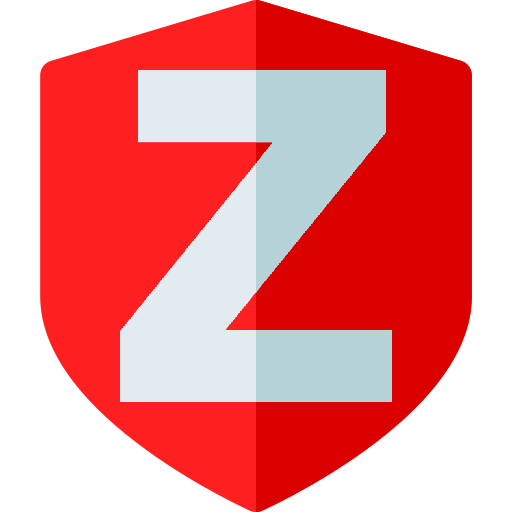
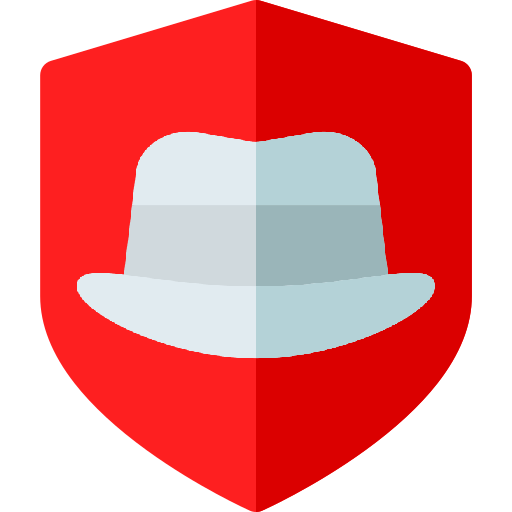
Add files via upload

Changed region(s): [[0.125, 0.125, 0.8438, 0.8125]]

diff --git a/index.html b/index.html
@@ -6,7 +6,7 @@
     <meta charset="UTF-8">
     <meta http-equiv="X-UA-Compatible" content="IE=edge">
     <meta name="viewport" content="width=device-width, initial-scale=1.0">
-    <title>The ZetaSploit Framework</title>
+    <title>The HatSploit Framework</title>
     <meta name="description" content="">
 
     <!-- External CSS -->
@@ -82,7 +82,7 @@
                     <div class="row">
                         <div class="col-xs-12">
                             <div class="banner-text-content text-center wow fadeInUp" data-wow-duration="1.5s">
-                                <h1 class="banner-title ">The ZetaSploit Framework</h1>
+                                <h1 class="banner-title ">The HatSploit Framework</h1>
                                 <p class="banner-text ">Modular penetration testing platform that enables you to write, test, and execute exploit code.</p>
                                 <div class="button-group ">
                                     <a class="btn btn-lg " href="# ">Learn More</a>
@@ -115,7 +115,7 @@
                                     <span class="icon-tools-2 "></span>
                                 </div>
                                 <h4 class="intro-title ">Customizable</h4>
-                                <p class="intro-content ">You can load plugins to customize ZetaSploit default functions or add new</p>
+                                <p class="intro-content ">You can load plugins to customize HatSploit default functions or add new</p>
                             </div>
                         </div>
                         <div class="col-sm-4">
@@ -124,7 +124,7 @@
                                     <span class="icon-layers"></span>
                                 </div>
                                 <h4 class="intro-title">Modular</h4>
-                                <p class="intro-content">ZetaSploit Framework is full of modules that enables you to exploit custom vulnerabilities</p>
+                                <p class="intro-content">HatSploit Framework is full of modules that enables you to exploit custom vulnerabilities</p>
                             </div>
                         </div>
                         <div class="col-sm-4">
@@ -133,7 +133,7 @@
                                     <span class="icon-speedometer "></span>
                                 </div>
                                 <h4 class="intro-title ">Fast</h4>
-                                <p class="intro-content ">ZetaSploit Framework optimized for user, it loads modules and plugins as fast as can</p>
+                                <p class="intro-content ">HatSploit Framework optimized for user, it loads modules and plugins as fast as can</p>
                             </div>
                         </div>
                     </div>
@@ -149,7 +149,7 @@
                     <div class="col-md-6 col-md-offset-3 col-xs-12 ">
                         <div class="section-header text-center ">
                             <h3 class="section-title ">All Features</h3>
-                            <p class="section-subtext ">There are some main ZetaSploit Framework features</p>
+                            <p class="section-subtext ">There are some main HatSploit Framework features</p>
                         </div>
                     </div>
                 </div>
@@ -161,7 +161,7 @@
                             </div>
                             <div class="feature-content ">
                                 <h4 class="feature-title ">Customizable</h4>
-                                <p>You can load plugins to customize ZetaSploit default functions or add new</p>
+                                <p>You can load plugins to customize HatSploit default functions or add new</p>
                             </div>
                         </div>
                         <div class="feature wow fadeInUp" data-wow-duration="1.5s">
@@ -170,7 +170,7 @@
                             </div>
                             <div class="feature-content">
                                 <h4 class="feature-title">Fast</h4>
-                                <p>ZetaSploit Framework optimized for user, it loads modules and plugins as fast as can</p>
+                                <p>HatSploit Framework optimized for user, it loads modules and plugins as fast as can</p>
                             </div>
                         </div>
                     </div>
@@ -184,7 +184,7 @@
                             </div>
                             <div class="feature-content ">
                                 <h4 class="feature-title ">Modular</h4>
-                                <p>ZetaSploit Framework is full of modules that enables you to exploit custom vulnerabilities</p>
+                                <p>HatSploit Framework is full of modules that enables you to exploit custom vulnerabilities</p>
                             </div>
                         </div>
                         <div class="feature wow fadeInUp" data-wow-duration="1.5s">
@@ -193,7 +193,7 @@
                             </div>
                             <div class="feature-content ">
                                 <h4 class="feature-title ">Fresh</h4>
-                                <p>ZetaSploit contains 0-day vulnerability exploits and all latest exploits, for example from 2018 till 2021</p>
+                                <p>HatSploit contains 0-day vulnerability exploits and all latest exploits, for example from 2018 till 2021</p>
                             </div>
                         </div>
                     </div>
@@ -208,10 +208,10 @@
                 <div class="row ">
                     <div class="col-md-6 col-xs-12 sm-bottom-40 ">
                         <div class="section-header style-2 ">
-                            <h2 class="section-title ">ZetaSploit in action</h2>
+                            <h2 class="section-title ">HatSploit in action</h2>
                         </div>
-                        <p>ZetaSploit in action!</p>
-                        <p>Let's see how ZetaSploit can exploit some popular 0-day vulnerabilities with it's modular exploits.</p>
+                        <p>HatSploit in action!</p>
+                        <p>Let's see how HatSploit can exploit some popular 0-day vulnerabilities with it's modular exploits.</p>
                     </div>
                     <div class="col-md-6 col-xs-12 ">
                         <div class="plyr-video">
@@ -248,8 +248,8 @@
                 <div class="row ">
                     <div class="col-md-6 col-md-offset-3 col-xs-12 ">
                         <div class="section-header text-center wow fadeInDown" data-wow-duration="1.5s">
-                            <h3 class="section-title ">Get ZetaSploit</h3>
-                            <p class="section-subtext ">Do not hasitate to collect it and enjoy the features of ZetaSploit</p>
+                            <h3 class="section-title ">Get HatSploit</h3>
+                            <p class="section-subtext ">Do not hasitate to collect it and enjoy the features of HatSploit</p>
                         </div>
                     </div>
                 </div>
@@ -262,7 +262,7 @@
                                             <span class="icon-tools-2 "></span>
                                         </div>
                                         <h4 class="intro-title ">Source code</h4>
-                                        <p class="intro-content ">Explore ZetaSploit Framework source code</p>
+                                        <p class="intro-content ">Explore HatSploit Framework source code</p>
                                         <a class="btn btn-lg btn-download "><i class="fa fa-github "></i>GitHub</a>
                                     </div>
                                 </div>
@@ -272,9 +272,9 @@
                                             <span class="icon-tools-2 "></span>
                                         </div>
                                         <h4 class="intro-title ">Install on system</h4>
-                                        <p class="intro-content ">Install ZetaSploit Framework to your system</p>
+                                        <p class="intro-content ">Install HatSploit Framework to your system</p>
                                         <code>curl \</code>
-                                        <code>https://zetasploit.netlify.app/install.sh \</code>
+                                        <code>https://hatsploit.netlify.app/install.sh \</code>
                                         <code>| bash</code>
                                     </div>
                                 </div>
@@ -284,7 +284,7 @@
                                             <span class="icon-tools-2 "></span>
                                         </div>
                                         <h4 class="intro-title ">Download database</h4>
-                                        <p class="intro-content ">Download ZetaSploit Framework modules database</p>
+                                        <p class="intro-content ">Download HatSploit Framework modules database</p>
                                         <a class="btn btn-lg btn-download "><i class="fa fa-github "></i>GitHub</a>
                                     </div>
                                 </div>

diff --git a/css/style.css b/css/style.css
@@ -1,5 +1,5 @@
 /*=======================================================================
-* Template Name: ZetaSploit
+* Template Name: HatSploit
 * Template URI: http://codepassenger.com/html/grape
 * Author: CodePassenger
 * Author URI: http://codepassenger.com/
